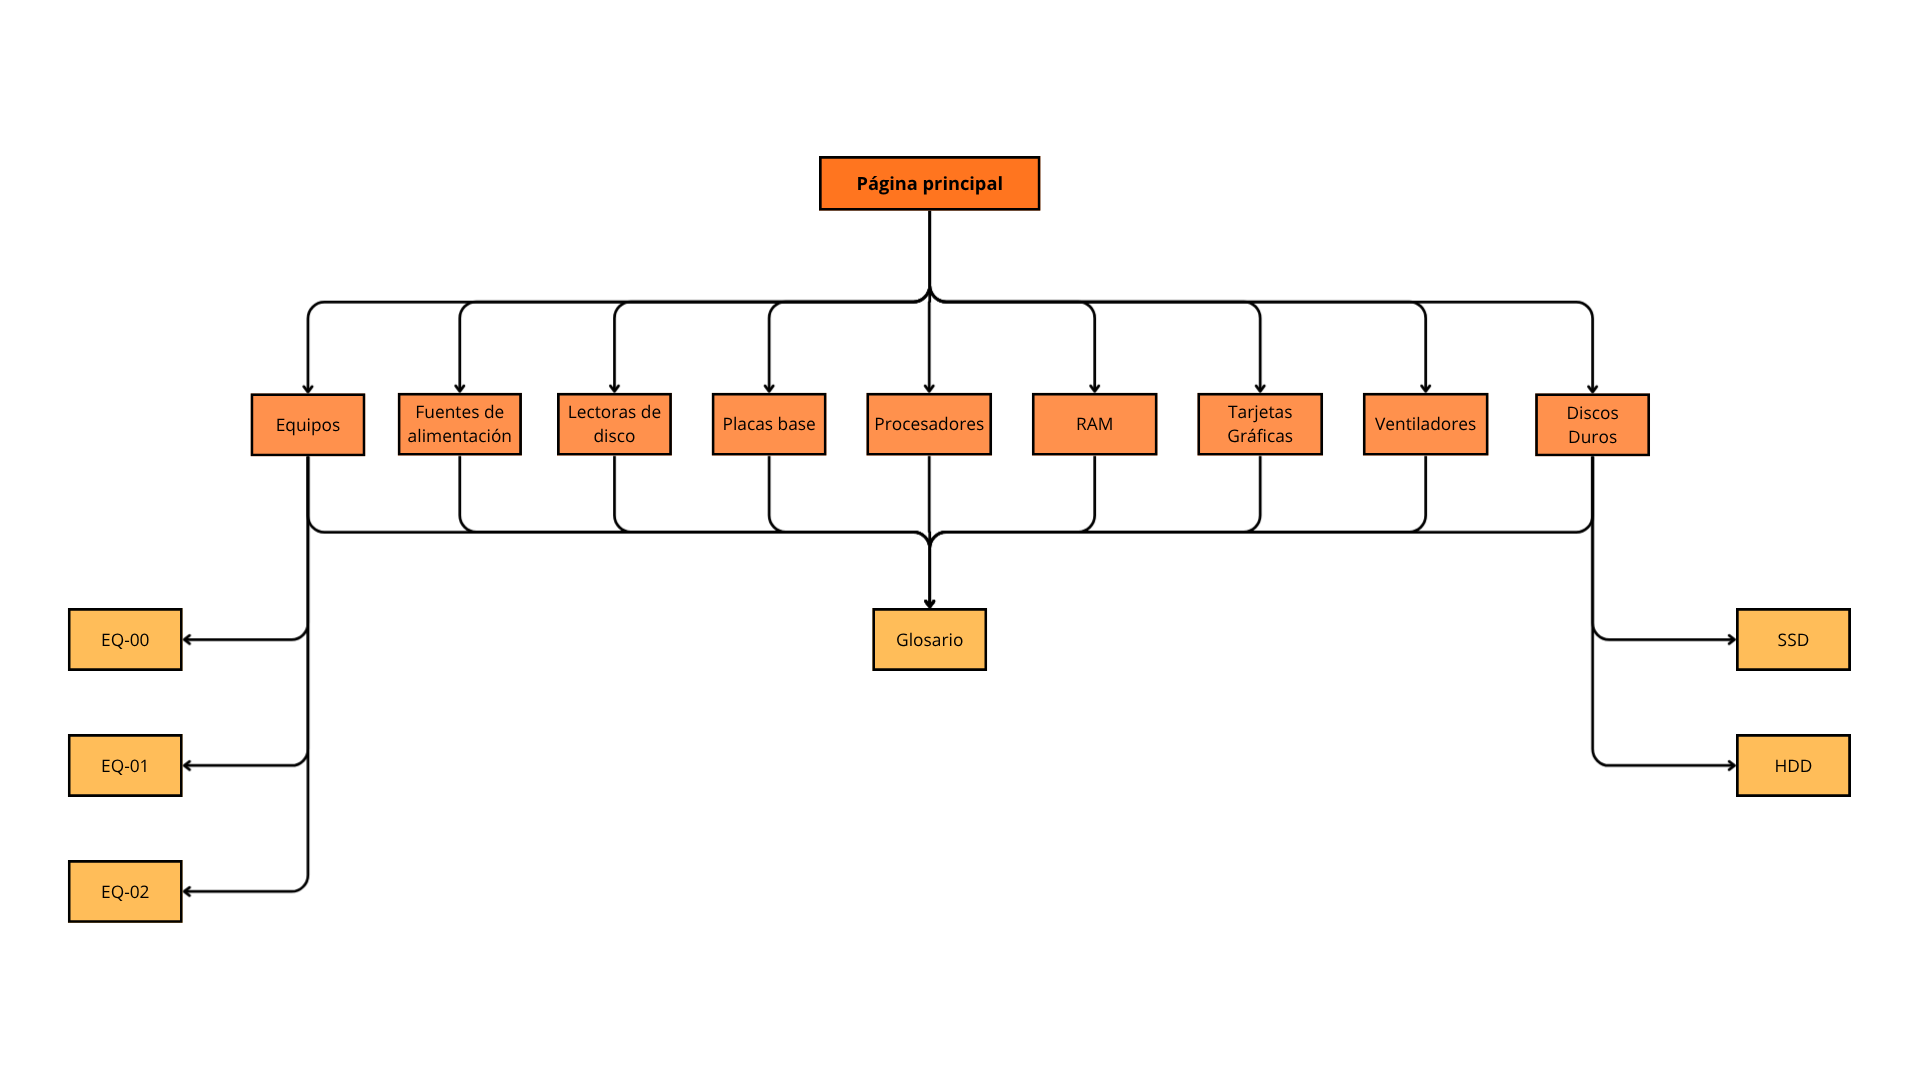
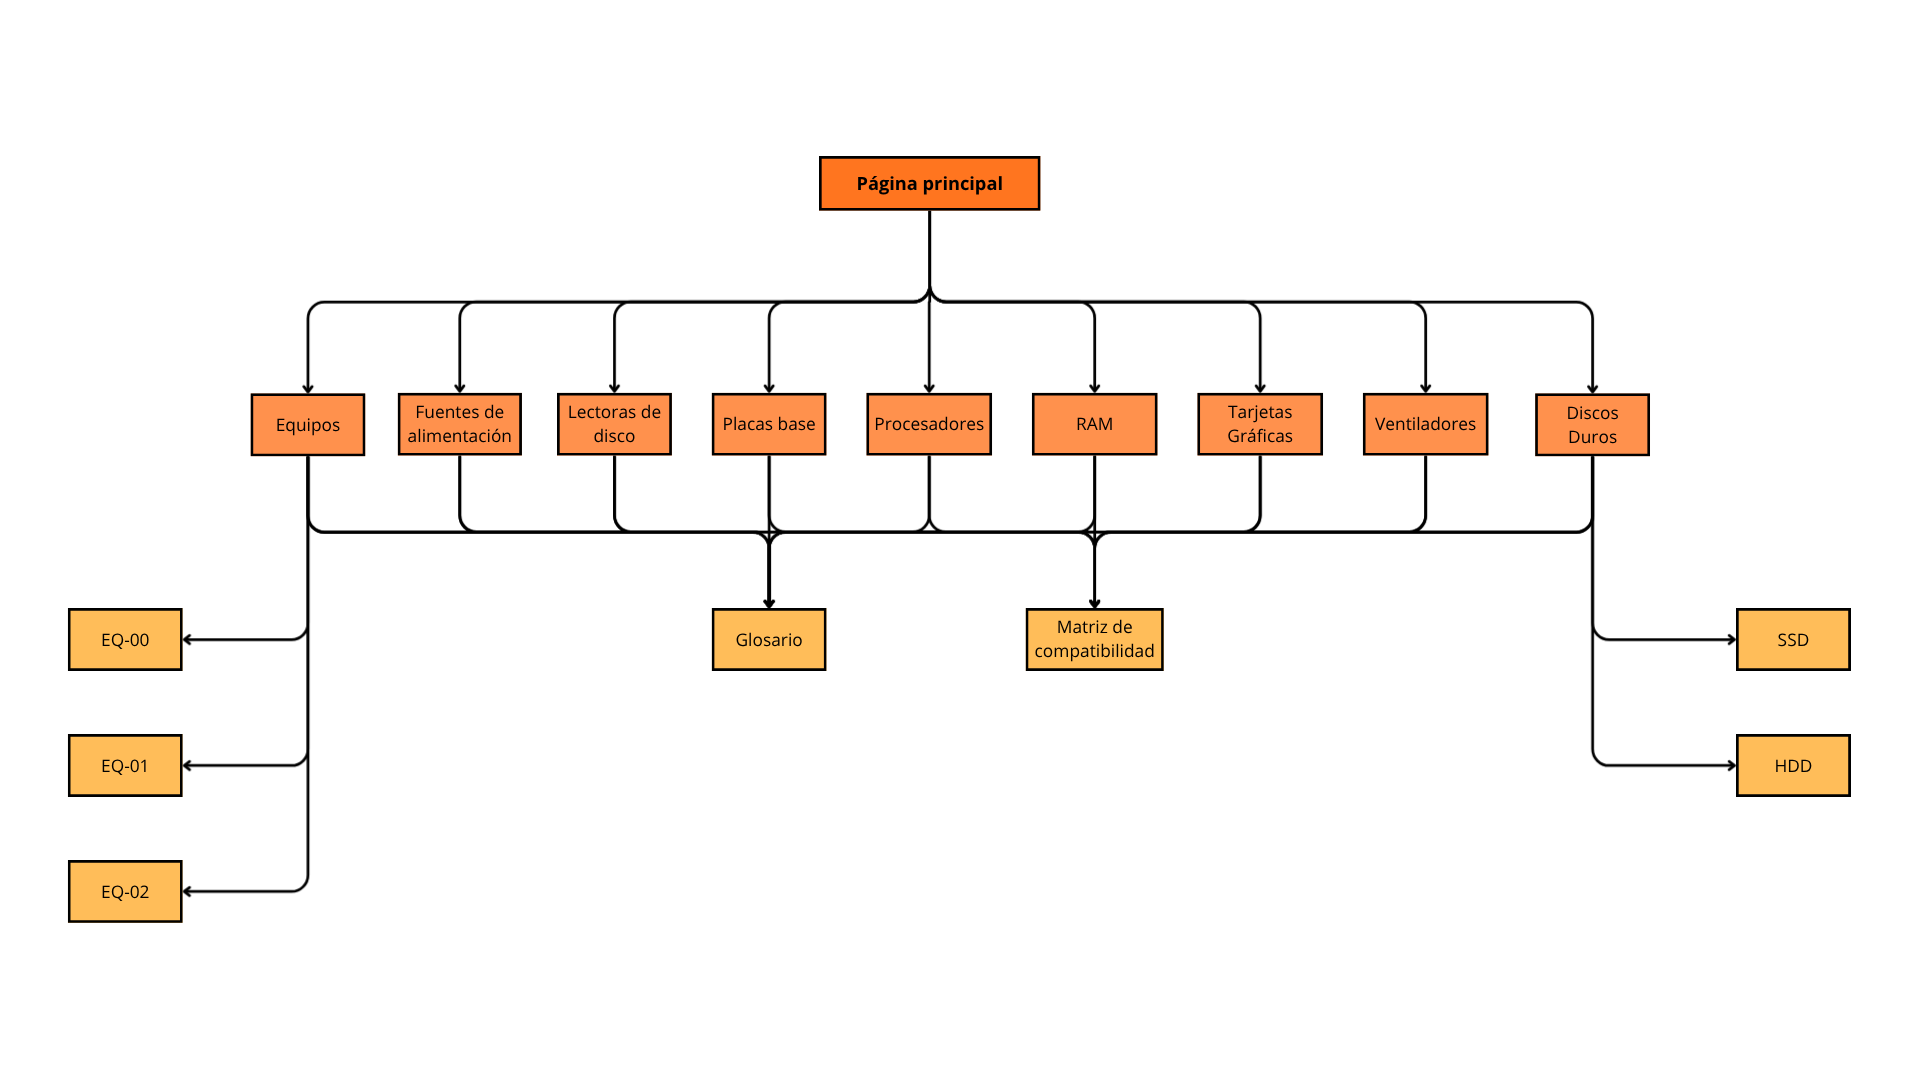
Update compatibilidad

diff --git a/Reto-00/Página web/html/matrizCompatibilidad.html b/Reto-00/Página web/html/matrizCompatibilidad.html
@@ -31,191 +31,191 @@
   <table border="1">
   <tr>
     <th>Componente</th>
-    <th><a href="https://www.dominiovirtual.es/placas-base/29368/a520m-k-v2/gigabyte-a520m-k-v2-placa-base-amd-a520-zocalo-am4-micro-atx-4719331852771.html">PB00</a></th>
-    <th><a href="https://theretroweb.com/motherboards/s/asus-m2n68-am-plus-rev-2-01g">PB01</a></th>
+    <th><a href="https://www.dominiovirtual.es/placas-base/29368/a520m-k-v2/gigabyte-a520m-k-v2-placa-base-amd-a520-zocalo-am4-micro-atx-4719331852771.html">PB00 (Gigabyte A520M K V2)</a></th>
+    <th><a href="https://theretroweb.com/motherboards/s/asus-m2n68-am-plus-rev-2-01g">PB01 (ASUS M2N68-AM PLUS)</a></th>
   </tr>
   <tr>
-    <td><a href="https://www.techpowerup.com/cpu-specs/athlon-3000g-fh.c2243">CPU00</a></td>
+    <td><a href="https://www.techpowerup.com/cpu-specs/athlon-3000g-fh.c2243"><b>CPU00</b> (AMD Athlon 3000G)</a></td>
     <td class="compatible">COMPATIBLE</td>
     <td class="nocompatible">NO COMPATIBLE</td>
   </tr>
   <tr>
-    <td><a href="https://www.techpowerup.com/cpu-specs/athlon-ii-x2-250.c602">CPU01</a></td>
+    <td><a href="https://www.techpowerup.com/cpu-specs/athlon-ii-x2-250.c602"><b>CPU01</b> (AMD Athlon II X2 250)</a></td>
     <td class="nocompatible">NO COMPATIBLE</td>
     <td class="compatible">COMPATIBLE</td>
   </tr>
   <tr>
-    <td><a href="https://assets.adata.com/storage/downloadfile/datasheet_xpg_gammix_d35_ddr4_memory_20260831.pdf">RAM00</a></td>
+    <td><a href="https://assets.adata.com/storage/downloadfile/datasheet_xpg_gammix_d35_ddr4_memory_20260831.pdf"><b>RAM00</b> (ADATA XPG GAMMIX D35 DDR4)</a></td>
     <td class="compatible">COMPATIBLE</td>
     <td class="nocompatible">NO COMPATIBLE</td>
   </tr>
   <tr>
-    <td><a href="https://www.alldatasheet.es/datasheet-pdf/pdf/332884/HYNIX/HMT325U6BFR8C-H9.html">RAM01</a></td>
+    <td><a href="https://www.alldatasheet.es/datasheet-pdf/pdf/332884/HYNIX/HMT325U6BFR8C-H9.html"><b>RAM01</b> (Hynix HMT325U6BFR8C-H9 DDR3)</a></td>
     <td class="nocompatible">NO COMPATIBLE</td>
     <td class="nocompatible">NO COMPATIBLE</td>
   </tr>
   <tr>
-    <td><a href="https://www.alldatasheet.com/datasheet-pdf/pdf/332753/HYNIX/HYMP125S64CP8-Y5.html">RAM02</a></td>
+    <td><a href="https://www.alldatasheet.com/datasheet-pdf/pdf/332753/HYNIX/HYMP125S64CP8-Y5.html"><b>RAM02</b> (Hynix HYMP125S64CP8-Y5 DDR2 SO-DIMM)</a></td>
     <td class="nocompatible">NO COMPATIBLE</td>
     <td class="nocompatible">NO COMPATIBLE</td>
   </tr>
   <tr>
-    <td><a href="https://4donline.ihs.com/images/VipMasterIC/IC/SAMS/SAMSS10023/SAMSS10023-1.pdf?hkey=61A2E4C270F0397D049F8F05BD4F1054">RAM03</a></td>
+    <td><a href="https://www.compuram.biz/memory_module/samsung/m378b5773ch0-ck0.htm"><b>RAM03</b> (Samsung M378B5773CH0-CK0 DDR3)</a></td>
     <td class="nocompatible">NO COMPATIBLE</td>
     <td class="nocompatible">NO COMPATIBLE</td>
   </tr>
   <tr>
-    <td><a href="https://www.rueducommerce.fr/p/m24072750089.html">RAM04</a></td>
+    <td><a href="https://www.rueducommerce.fr/p/m24072750089.html"><b>RAM04</b> (Ramaxel RMR5030MN58E8F-1600 DDR3)</a></td>
     <td class="nocompatible">NO COMPATIBLE</td>
     <td class="nocompatible">NO COMPATIBLE</td>
   </tr>
   <tr>
-    <td><a href="https://www.compuram.biz/memory_module/micron/mt8jtf25664az-1g6d1.htm">RAM05</a></td>
+    <td><a href="https://www.compuram.biz/memory_module/micron/mt8jtf25664az-1g6d1.htm"><b>RAM05</b> (Micron MT8JTF25664AZ-1G6D1 DDR3)</a></td>
     <td class="nocompatible">NO COMPATIBLE</td>
     <td class="nocompatible">NO COMPATIBLE</td>
   </tr>
   <tr>
-    <td><a href="https://octopart.com/es/part/micron/MT8JTF25664AZ-1G4D1">RAM06</a></td>
+    <td><a href="https://octopart.com/es/part/micron/MT8JTF25664AZ-1G4D1"><b>RAM06</b> (Micron MT8JTF25664AZ-1G4D1 DDR3)</a></td>
     <td class="nocompatible">NO COMPATIBLE</td>
     <td class="nocompatible">NO COMPATIBLE</td>
   </tr>
   <tr>
-    <td><a href="https://ram-co-shop.de/2-GB-DDR3-ECC-RAM-PC3-10600E-Micron-MT9JSF25672AZ-1G4D1ZE_1">RAM07</a></td>
+    <td><a href="https://ram-co-shop.de/2-GB-DDR3-ECC-RAM-PC3-10600E-Micron-MT9JSF25672AZ-1G4D1ZE_1"><b>RAM07</b> (Micron MT9JSF25672AZ-1G4D1ZE DDR3 ECC)</a></td>
     <td class="nocompatible">NO COMPATIBLE</td>
     <td class="nocompatible">NO COMPATIBLE</td>
   </tr>
   <tr>
-    <td><a href="https://www.compuram.biz/memory_module/crucial/ct25664ba160b-c8f.htm">RAM08</a></td>
+    <td><a href="https://www.compuram.biz/memory_module/crucial/ct25664ba160b-c8f.htm"><b>RAM08</b> (Crucial CT25664BA160B.C8F DDR3)</a></td>
     <td class="nocompatible">NO COMPATIBLE</td>
     <td class="nocompatible">NO COMPATIBLE</td>
   </tr>
   <tr>
-    <td><a href="https://www.alldatasheet.es/datasheet-pdf/pdf/2172819/KINGSTON/KVR800D2N5-1G.html">RAM09</a></td>
+    <td><a href="https://www.alldatasheet.es/datasheet-pdf/pdf/2172819/KINGSTON/KVR800D2N5-1G.html"><b>RAM09</b> (Kingston KVR800D2N5/1G DDR2)</a></td>
     <td class="nocompatible">NO COMPATIBLE</td>
     <td class="compatible">COMPATIBLE</td>
   </tr>
   <tr>
-    <td><a href="https://www.techpowerup.com/gpu-specs/radeon-x1550.c1805">GPU00</a></td>
+    <td><a href="https://www.techpowerup.com/gpu-specs/radeon-x1550.c1805"><b>GPU00</b> (ATI Radeon X1550)</a></td>
     <td class="compatible">COMPATIBLE</td>
     <td class="compatible">COMPATIBLE</td>
   </tr>
   <tr>
-    <td><a href="https://www.chaynikam.info/es/Mobility_Radeon_HD_3450.html">GPU01</a></td>
+    <td><a href="https://www.chaynikam.info/es/Mobility_Radeon_HD_3450.html"><b>GPU01</b> (ATI Mobility Radeon HD 3450)</a></td>
     <td class="compatible">COMPATIBLE</td>
     <td class="compatible">COMPATIBLE</td>
   </tr>
   <tr>
-    <td><a href="https://www.geektopia.es/es/product/nvidia/geforce-8600-gts/">GPU02</a></td>
+    <td><a href="https://www.geektopia.es/es/product/nvidia/geforce-8600-gts/"><b>GPU02</b> (NVIDIA GeForce 8600 GTS)</a></td>
     <td class="compatible">COMPATIBLE</td>
     <td class="compatible">COMPATIBLE</td>
   </tr>
   <tr>
-    <td><a href="https://www.techpowerup.com/gpu-specs/geforce-210.c2020">GPU03</a></td>
+    <td><a href="https://www.techpowerup.com/gpu-specs/geforce-210.c2020"><b>GPU03</b> (NVIDIA GeForce 210)</a></td>
     <td class="compatible">COMPATIBLE</td>
     <td class="compatible">COMPATIBLE</td>
   </tr>
   <tr>
-    <td><a href="https://www.techpowerup.com/gpu-specs/radeon-hd-3650.c226">GPU04</a></td>
+    <td><a href="https://www.techpowerup.com/gpu-specs/radeon-hd-3650.c226"><b>GPU04</b> (ATI Radeon HD 3650)</a></td>
     <td class="compatible">COMPATIBLE</td>
     <td class="compatible">COMPATIBLE</td>
   </tr>
   <tr>
-    <td><a href="https://gzhls.at/blob/ldb/3/f/5/8/df89cd2a2bdba8b18b009df9232c196e8c47.pdf">DD00</a></td>
+    <td><a href="https://gzhls.at/blob/ldb/3/f/5/8/df89cd2a2bdba8b18b009df9232c196e8c47.pdf"><b>DD00</b> (Crucial BX500 2.5 SSD SATA)</a></td>
     <td class="compatible">COMPATIBLE</td>
     <td class="nocompatible">NO COMPATIBLE</td>
   </tr>
   <tr>
-    <td><a href="https://www.hdsentinel.com/storageinfo_details.php?lang=en&model=WDC%20WD5000AAKX">DD01</a></td>
+    <td><a href="https://www.hdsentinel.com/storageinfo_details.php?lang=en&model=WDC%20WD5000AAKX"><b>DD01</b> (Western Digital WD Blue WD5000AAKX 500GB)</a></td>
     <td class="compatible">COMPATIBLE</td>
     <td class="compatible">COMPATIBLE</td>
   </tr>
   <tr>
-    <td><a href="https://recuperodatos.com/disco/samsung-hd502hj-hdd-3-5-sata-500gb-595-955">DD02</a></td>
+    <td><a href="https://recuperodatos.com/disco/samsung-hd502hj-hdd-3-5-sata-500gb-595-955"><b>DD02</b> (Samsung SpinPoint F3 HD502HJ 500GB)</a></td>
     <td class="compatible">COMPATIBLE</td>
     <td class="compatible">COMPATIBLE</td>
   </tr>
   <tr>
-    <td><a href="https://recuperodatos.com/disco/seagate-st500dm002-1bd142-hdd-3-5-sata-500gb-595-3561">DD03</a></td>
+    <td><a href="https://recuperodatos.com/disco/seagate-st500dm002-1bd142-hdd-3-5-sata-500gb-595-3561"><b>DD03</b> (Seagate Barracuda ST500DM002 500GB)</a></td>
     <td class="compatible">COMPATIBLE</td>
     <td class="compatible">COMPATIBLE</td>
   </tr>
   <tr>
-    <td><a href="https://www.geektopia.es/es/product/western-digital/wd10ezex/">DD04</a></td>
+    <td><a href="https://www.geektopia.es/es/product/western-digital/wd10ezex/"><b>DD04</b> (Western Digital WD Blue WD10EZEX 1TB)</a></td>
     <td class="compatible">COMPATIBLE</td>
     <td class="compatible">COMPATIBLE</td>
   </tr>
   <tr>
-    <td><a href="https://www.hdsentinel.com/storageinfo_details.php?lang=en&model=MAXTOR%20STM3320820AS">DD05</a></td>
+    <td><a href="https://www.hdsentinel.com/storageinfo_details.php?lang=en&model=MAXTOR%20STM3320820AS"><b>DD05</b> (Maxtor DiamondMax 21 STM3320820AS 320GB)</a></td>
     <td class="compatible">COMPATIBLE</td>
     <td class="compatible">COMPATIBLE</td>
   </tr>
   <tr>
-    <td><a href="https://www.storagereview.com/review/sandisk-ultra-ssd-review-240gb">DD06</a></td>
+    <td><a href="https://www.storagereview.com/review/sandisk-ultra-ssd-review-240gb"><b>DD06</b> (SanDisk Ultra SSD 240GB)</a></td>
     <td class="compatible">COMPATIBLE</td>
     <td class="compatible">COMPATIBLE</td>
   </tr>
   <tr>
-    <td><a href="https://www.kingston.com/datasheets/SA400S37_latam.pdf">DD07</a></td>
+    <td><a href="https://www.kingston.com/datasheets/SA400S37_latam.pdf"><b>DD07</b> (Kingston A400 SA400S37 SSD SATA)</a></td>
     <td class="compatible">COMPATIBLE</td>
     <td class="compatible">COMPATIBLE</td>
   </tr>
   <tr>
-    <td><a href="https://tacens.es/en/componentes/apsiii500">FA00</a></td>
+    <td><a href="https://tacens.es/en/componentes/apsiii500"><b>FA00</b> (Tacens Anima APSIII500 500W)</a></td>
     <td class="compatible">COMPATIBLE</td>
     <td class="compatible">COMPATIBLE</td>
   </tr>
   <tr>
-    <td><a href="https://www.hardmaniacos.com/review-fuente-de-alimentacion-thermaltake-litepower-700w/">FA01</a></td>
+    <td><a href="https://www.hardmaniacos.com/review-fuente-de-alimentacion-thermaltake-litepower-700w/"><b>FA01</b> (Thermaltake Litepower 700W)</a></td>
     <td class="compatible">COMPATIBLE</td>
     <td class="compatible">COMPATIBLE</td>
   </tr>
   <tr>
-    <td><a href="https://es.wallapop.com/item/fuente-alimentacion-maxima-oke-model-st452-de-450w-1161711566">FA02</a></td>
+    <td><a href="https://es.wallapop.com/item/fuente-alimentacion-maxima-oke-model-st452-de-450w-1161711566"><b>FA02</b> (Maxima OKE ST-452 450W)</a></td>
     <td class="compatible">COMPATIBLE</td>
     <td class="compatible">COMPATIBLE</td>
   </tr>
   <tr>
-    <td><a href="https://psacomputoypapeleria.com/producto/Componentes/lector_interno_dvd_uj8b1_memoria_cache_2mb_velocidad_de_escritura_8x_cav_24x_cav_interfaz_sata_color_gris">LD00</a></td>
+    <td><a href="https://psacomputoypapeleria.com/producto/Componentes/lector_interno_dvd_uj8b1_memoria_cache_2mb_velocidad_de_escritura_8x_cav_24x_cav_interfaz_sata_color_gris"><b>LD00</b> (Panasonic UJ8B1 Lector DVD SATA)</a></td>
     <td class="compatible">COMPATIBLE</td>
     <td class="compatible">COMPATIBLE</td>
   </tr>
   <tr>
-    <td><a href="https://icecat.biz/p/samsung/sn-208-fb-bebe/optical+disc+drives-sn-208fb-38079125.html">LD01</a></td>
+    <td><a href="https://icecat.biz/p/samsung/sn-208-fb-bebe/optical+disc+drives-sn-208fb-38079125.html"><b>LD01</b> (Samsung SN-208FB Lector DVD SATA)</a></td>
     <td class="compatible">COMPATIBLE</td>
     <td class="compatible">COMPATIBLE</td>
   </tr>
   <tr>
-    <td><a href="https://ibertronica.es/tp-link-tl-wn881nd-300mb-pci-e">TR00</a></td>
+    <td><a href="https://ibertronica.es/tp-link-tl-wn881nd-300mb-pci-e"><b>TR00</b> (TP-Link TL-WN881ND PCIe)</a></td>
     <td class="compatible">COMPATIBLE</td>
     <td class="compatible">COMPATIBLE</td>
   </tr>
   <tr>
-    <td><a href="https://www.quickhard.com/Conceptronic-Wireless-Tarjeta-PCI-(C300RI).asp">TR01</a></td>
+    <td><a href="https://www.quickhard.com/Conceptronic-Wireless-Tarjeta-PCI-(C300RI).asp"><b>TR01</b> (Conceptronic Wireless C300RI PCI)</a></td>
     <td class="nocompatible">NO COMPATIBLE</td>
     <td class="compatible">COMPATIBLE</td>
   </tr>
   <tr>
-    <td><a href="https://dakis.es/2105-disipador-amd-am4-712-000046-original.html">V00</a></td>
+    <td><a href="https://dakis.es/2105-disipador-amd-am4-712-000046-original.html"><b>V00</b> (Disipador AMD AM4 712-000046)</a></td>
     <td class="compatible">COMPATIBLE</td>
     <td class="compatible">COMPATIBLE</td>
   </tr>
   <tr>
-    <td><a href="https://www.elecok.com/es/ningjie-nj12025se-server-square-fan-sq120x25-w165x2x2-12v-0-12a.html">V01</a></td>
+    <td><a href="https://www.elecok.com/es/ningjie-nj12025se-server-square-fan-sq120x25-w165x2x2-12v-0-12a.html"><b>V01</b> (Ningjie NJ12025SE Ventilador 120mm)</a></td>
     <td class="compatible">COMPATIBLE</td>
     <td class="compatible">COMPATIBLE</td>
   </tr>
   <tr>
-    <td><a href="https://tacens.es/en/ventiladores/af12">V02</a></td>
+    <td><a href="https://tacens.es/en/ventiladores/af12"><b>V02</b> (Tacens Anima AF12 Ventilador 120mm)</a></td>
     <td class="compatible">COMPATIBLE</td>
     <td class="compatible">COMPATIBLE</td>
   </tr>
   <tr>
-    <td><a href="https://tacens.es/componentes/ac4500">CH00</a></td>
+    <td><a href="https://tacens.es/componentes/ac4500"><b>CH00</b> (Tacens Anima AC4500)</a></td>
     <td class="compatible">COMPATIBLE</td>
     <td class="compatible">COMPATIBLE</td>
   </tr>
   <tr>
-    <td><a href="https://mobilespecs.net/cases/Codegen/Codegen_SuperPower_Q6232-A2_480W.html">CH01</a></td>
+    <td><a href="https://mobilespecs.net/cases/Codegen/Codegen_SuperPower_Q6232-A2_480W.html"><b>CH01</b> (Codegen SuperPower Q6232-A2)</a></td>
     <td class="compatible">COMPATIBLE</td>
     <td class="compatible">COMPATIBLE</td>
   </tr>
